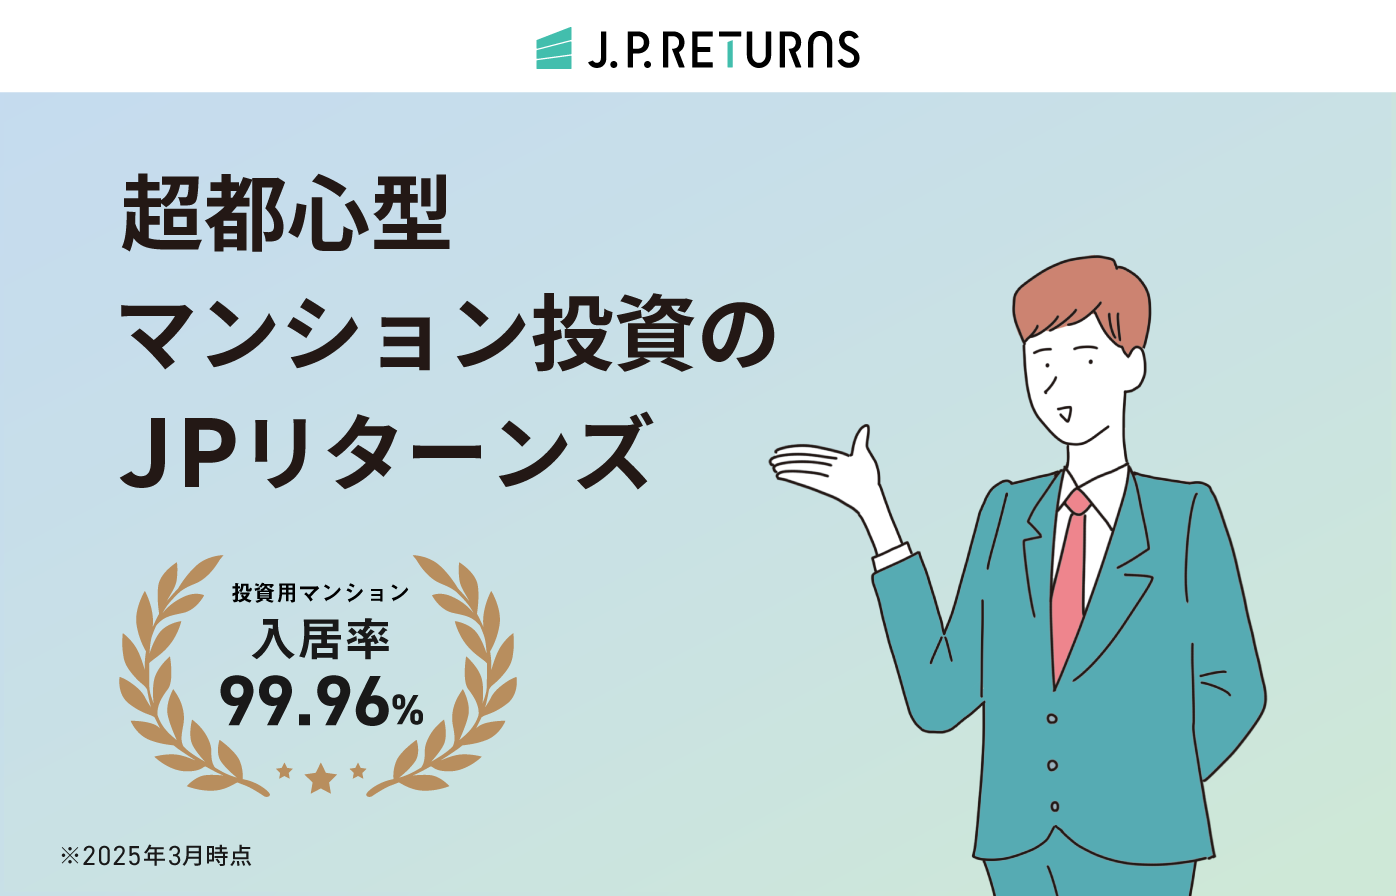
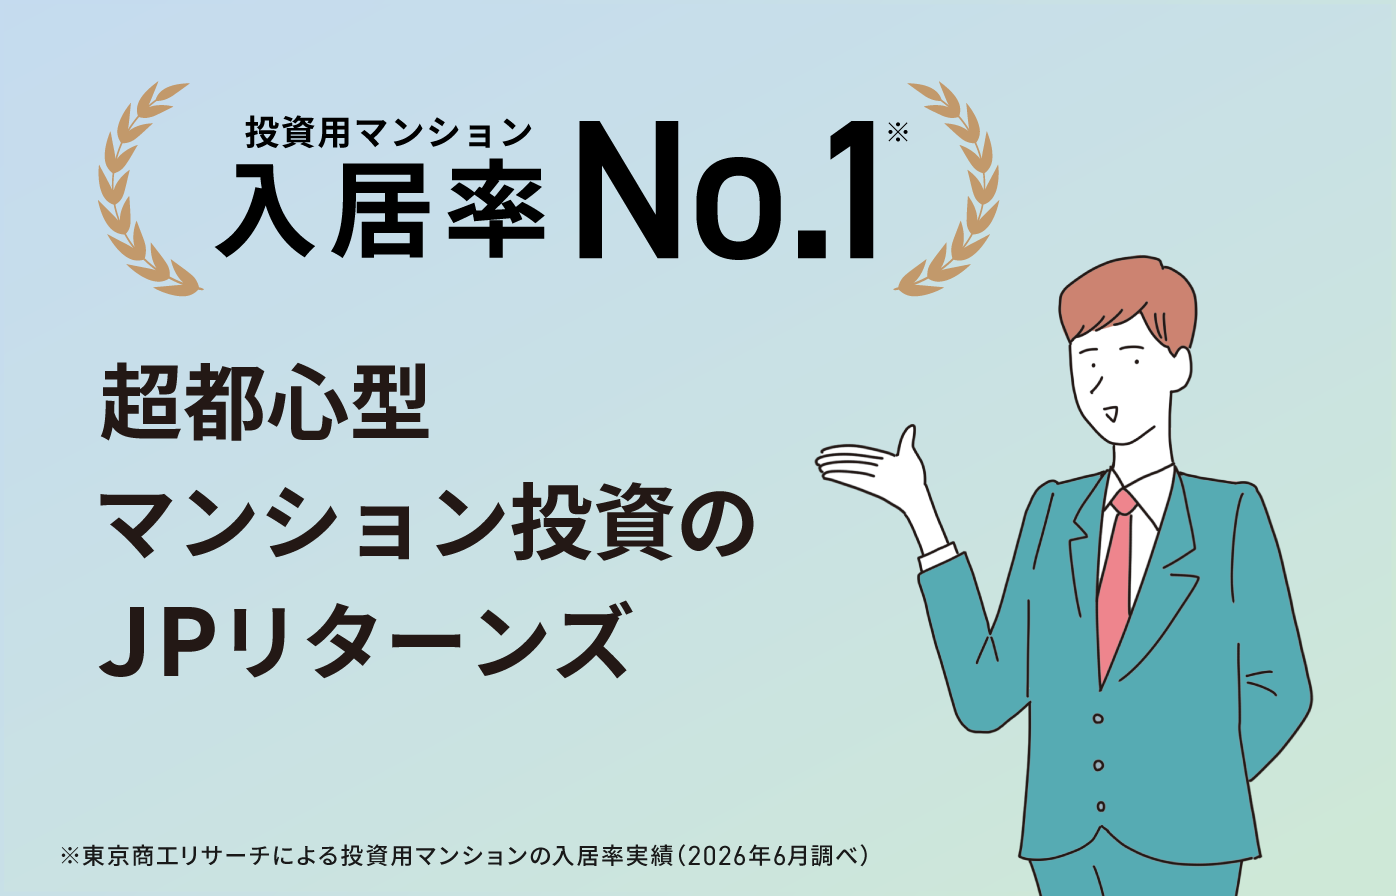
feat: 新しいバナー画像と動画を追加し、キャンペーン用の設定を更新

diff --git a/ebook_propertyinvestment/js/config.js b/ebook_propertyinvestment/js/config.js
@@ -20,6 +20,10 @@ const BANNER_CAMPAIGN = {
     'like_dining': '/ebook_propertyinvestment/images/banner_ebook_like-dining.png',
     'like_suv': '/ebook_propertyinvestment/images/banner_ebook_like-suv.png',
     'like_watch': '/ebook_propertyinvestment/images/banner_ebook_like-watch.png',
+    'no1_': [
+        '/ebook_propertyinvestment/images/banner_no1.mp4',
+        '/ebook_propertyinvestment/images/banner_gift.webp'
+    ],
     'fbtrg': '/ebook_propertyinvestment/images/banner_ebook_meta.webp',
     'ALA_gift_ebook_2529PM': '/ebook_propertyinvestment/images/banner_chotoshin_260625.webp',
     'ALA_gift_ebook_2529y': '/ebook_propertyinvestment/images/banner_chotoshin_260625.webp',